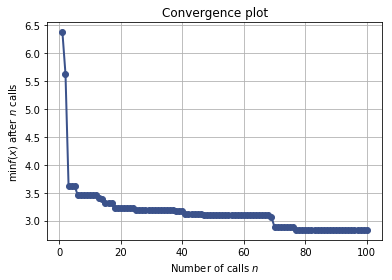
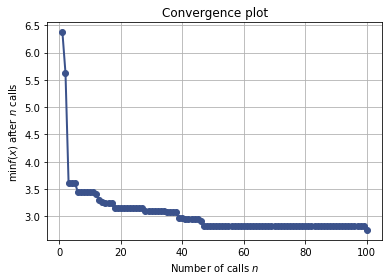
Pushing the docs for revision for branch: master, commit 6510986c71270a9a681dd38e9f9c0741b0b785f9

diff --git a/notebooks/bayesian-optimization.html b/notebooks/bayesian-optimization.html
@@ -1223,50 +1223,50 @@ controlling the exploration-exploitation trade-off.
              kernel=1**2 * Matern(length_scale=1, nu=2.5) + WhiteKernel(noise_level=0.01),
              n_restarts_optimizer=2, noise=0.010000000000000002,
              normalize_y=True, optimizer=&#39;fmin_l_bfgs_b&#39;,
-             random_state=&lt;mtrand.RandomState object at 0x7f016ec9a1f8&gt;), GaussianProcessRegressor(alpha=0.0, copy_X_train=True,
+             random_state=&lt;mtrand.RandomState object at 0x7f0a4779e1b0&gt;), GaussianProcessRegressor(alpha=0.0, copy_X_train=True,
              kernel=1**2 * Matern(length_scale=1, nu=2.5) + WhiteKernel(noise_level=0.01),
              n_restarts_optimizer=2, noise=0.010000000000000002,
              normalize_y=True, optimizer=&#39;fmin_l_bfgs_b&#39;,
-             random_state=&lt;mtrand.RandomState object at 0x7f016eca5e58&gt;), GaussianProcessRegressor(alpha=0.0, copy_X_train=True,
+             random_state=&lt;mtrand.RandomState object at 0x7f0a477a9e10&gt;), GaussianProcessRegressor(alpha=0.0, copy_X_train=True,
              kernel=1**2 * Matern(length_scale=1, nu=2.5) + WhiteKernel(noise_level=0.01),
              n_restarts_optimizer=2, noise=0.010000000000000002,
              normalize_y=True, optimizer=&#39;fmin_l_bfgs_b&#39;,
-             random_state=&lt;mtrand.RandomState object at 0x7f016ecaf318&gt;), GaussianProcessRegressor(alpha=0.0, copy_X_train=True,
+             random_state=&lt;mtrand.RandomState object at 0x7f0a477b02d0&gt;), GaussianProcessRegressor(alpha=0.0, copy_X_train=True,
              kernel=1**2 * Matern(length_scale=1, nu=2.5) + WhiteKernel(noise_level=0.01),
              n_restarts_optimizer=2, noise=0.010000000000000002,
              normalize_y=True, optimizer=&#39;fmin_l_bfgs_b&#39;,
-             random_state=&lt;mtrand.RandomState object at 0x7f016ecaf240&gt;), GaussianProcessRegressor(alpha=0.0, copy_X_train=True,
+             random_state=&lt;mtrand.RandomState object at 0x7f0a477b01f8&gt;), GaussianProcessRegressor(alpha=0.0, copy_X_train=True,
              kernel=1**2 * Matern(length_scale=1, nu=2.5) + WhiteKernel(noise_level=0.01),
              n_restarts_optimizer=2, noise=0.010000000000000002,
              normalize_y=True, optimizer=&#39;fmin_l_bfgs_b&#39;,
-             random_state=&lt;mtrand.RandomState object at 0x7f016ec9ac18&gt;), GaussianProcessRegressor(alpha=0.0, copy_X_train=True,
+             random_state=&lt;mtrand.RandomState object at 0x7f0a4779ebd0&gt;), GaussianProcessRegressor(alpha=0.0, copy_X_train=True,
              kernel=1**2 * Matern(length_scale=1, nu=2.5) + WhiteKernel(noise_level=0.01),
              n_restarts_optimizer=2, noise=0.010000000000000002,
              normalize_y=True, optimizer=&#39;fmin_l_bfgs_b&#39;,
-             random_state=&lt;mtrand.RandomState object at 0x7f0170a36870&gt;), GaussianProcessRegressor(alpha=0.0, copy_X_train=True,
+             random_state=&lt;mtrand.RandomState object at 0x7f0a525d6360&gt;), GaussianProcessRegressor(alpha=0.0, copy_X_train=True,
              kernel=1**2 * Matern(length_scale=1, nu=2.5) + WhiteKernel(noise_level=0.01),
              n_restarts_optimizer=2, noise=0.010000000000000002,
              normalize_y=True, optimizer=&#39;fmin_l_bfgs_b&#39;,
-             random_state=&lt;mtrand.RandomState object at 0x7f0179b3f798&gt;), GaussianProcessRegressor(alpha=0.0, copy_X_train=True,
+             random_state=&lt;mtrand.RandomState object at 0x7f0a52642990&gt;), GaussianProcessRegressor(alpha=0.0, copy_X_train=True,
              kernel=1**2 * Matern(length_scale=1, nu=2.5) + WhiteKernel(noise_level=0.01),
              n_restarts_optimizer=2, noise=0.010000000000000002,
              normalize_y=True, optimizer=&#39;fmin_l_bfgs_b&#39;,
-             random_state=&lt;mtrand.RandomState object at 0x7f0179b3f990&gt;), GaussianProcessRegressor(alpha=0.0, copy_X_train=True,
+             random_state=&lt;mtrand.RandomState object at 0x7f0a52642948&gt;), GaussianProcessRegressor(alpha=0.0, copy_X_train=True,
              kernel=1**2 * Matern(length_scale=1, nu=2.5) + WhiteKernel(noise_level=0.01),
              n_restarts_optimizer=2, noise=0.010000000000000002,
              normalize_y=True, optimizer=&#39;fmin_l_bfgs_b&#39;,
-             random_state=&lt;mtrand.RandomState object at 0x7f0179b3f5e8&gt;), GaussianProcessRegressor(alpha=0.0, copy_X_train=True,
+             random_state=&lt;mtrand.RandomState object at 0x7f0a52642c60&gt;), GaussianProcessRegressor(alpha=0.0, copy_X_train=True,
              kernel=1**2 * Matern(length_scale=1, nu=2.5) + WhiteKernel(noise_level=0.01),
              n_restarts_optimizer=2, noise=0.010000000000000002,
              normalize_y=True, optimizer=&#39;fmin_l_bfgs_b&#39;,
-             random_state=&lt;mtrand.RandomState object at 0x7f0179b3f318&gt;)]
- random_state: &lt;mtrand.RandomState object at 0x7f016ec95990&gt;
+             random_state=&lt;mtrand.RandomState object at 0x7f0a52642318&gt;)]
+ random_state: &lt;mtrand.RandomState object at 0x7f0a47798948&gt;
         space: Space([Real(low=-2.0, high=2.0, prior=uniform, transform=identity)])
         specs: {&#39;args&#39;: {&#39;n_jobs&#39;: 1, &#39;kappa&#39;: 1.96, &#39;xi&#39;: 0.01, &#39;n_restarts_optimizer&#39;: 5, &#39;n_points&#39;: 10000, &#39;callback&#39;: None, &#39;verbose&#39;: False, &#39;random_state&#39;: 123, &#39;y0&#39;: None, &#39;x0&#39;: None, &#39;acq_optimizer&#39;: &#39;lbfgs&#39;, &#39;acq_func&#39;: &#39;EI&#39;, &#39;n_random_starts&#39;: 5, &#39;n_calls&#39;: 15, &#39;base_estimator&#39;: GaussianProcessRegressor(alpha=0.0, copy_X_train=True,
              kernel=1**2 * Matern(length_scale=1, nu=2.5),
              n_restarts_optimizer=2, noise=0.010000000000000002,
              normalize_y=True, optimizer=&#39;fmin_l_bfgs_b&#39;,
-             random_state=&lt;mtrand.RandomState object at 0x7f016ec95090&gt;), &#39;dimensions&#39;: [(-2.0, 2.0)], &#39;func&#39;: &lt;function f at 0x7f017c4698c8&gt;}, &#39;function&#39;: &#39;base_minimize&#39;}
+             random_state=&lt;mtrand.RandomState object at 0x7f0a47798048&gt;), &#39;dimensions&#39;: [(-2.0, 2.0)], &#39;func&#39;: &lt;function f at 0x7f0a54f6d8c8&gt;}, &#39;function&#39;: &#39;base_minimize&#39;}
             x: [-0.31431138440779044]
       x_iters: [[0.785876742391447], [-0.85544266019848192], [-1.0925941857431873], [0.20525907633156537], [0.87787587914225274], [1.0930078275284341], [-1.5825827673513784], [-1.8740230637856119], [2.0], [1.5920603878809245], [-1.3948575246313788], [0.91055125717293051], [-0.38405568669965967], [-0.31431138440779044], [-0.30894059735758106]]
 </pre></div>

diff --git a/notebooks/ask-and-tell.html b/notebooks/ask-and-tell.html
@@ -1119,7 +1119,7 @@ table {
 </pre></div>
 
 
-<div class="codehilite"><pre><span></span>&lt;matplotlib.figure.Figure at 0x7f6ee5f03828&gt;
+<div class="codehilite"><pre><span></span>&lt;matplotlib.figure.Figure at 0x7fb6ececb4e0&gt;
 </pre></div>
 
 
@@ -1198,7 +1198,7 @@ optimizer:</p>
 <div class="codehilite"><pre><span></span>          fun: -0.063856745472530174
     func_vals: array([-0.06385675])
        models: []
- random_state: &lt;mtrand.RandomState object at 0x7f6eec866bd0&gt;
+ random_state: &lt;mtrand.RandomState object at 0x7fb6d404dc60&gt;
         space: Space([Real(low=-2.0, high=2.0, prior=uniform, transform=identity)])
         specs: None
             x: [-1.3229420461664514]

diff --git a/notebooks/hyperparameter-optimization.html b/notebooks/hyperparameter-optimization.html
@@ -1164,7 +1164,7 @@ Katie Malone, August 2016</p>
 </pre></div>
 
 
-<div class="codehilite"><pre><span></span>&#39;Best score=2.8328&#39;
+<div class="codehilite"><pre><span></span>&#39;Best score=2.7493&#39;
 </pre></div>
 
 
@@ -1181,9 +1181,9 @@ Katie Malone, August 2016</p>
 
 <div class="codehilite"><pre><span></span>Best parameters:
 - max_depth=5
-- learning_rate=0.162082
-- max_features=5
-- min_samples_split=21
+- learning_rate=0.136416
+- max_features=9
+- min_samples_split=34
 - min_samples_leaf=1
 </pre></div>
 

diff --git a/notebooks/strategy-comparison.html b/notebooks/strategy-comparison.html
@@ -1119,7 +1119,7 @@ table {
 </pre></div>
 
 
-<div class="codehilite"><pre><span></span>&lt;matplotlib.figure.Figure at 0x7f4e5eeb3438&gt;
+<div class="codehilite"><pre><span></span>&lt;matplotlib.figure.Figure at 0x7f4be2db2438&gt;
 </pre></div>
 
 

diff --git a/notebooks/visualizing-results.html b/notebooks/visualizing-results.html
@@ -1119,7 +1119,7 @@ table {
 </pre></div>
 
 
-<div class="codehilite"><pre><span></span>&lt;matplotlib.figure.Figure at 0x7ff34808f828&gt;
+<div class="codehilite"><pre><span></span>&lt;matplotlib.figure.Figure at 0x7f30a07cec50&gt;
 </pre></div>
 
 

diff --git a/notebooks/bayesian-optimization.md b/notebooks/bayesian-optimization.md
@@ -135,50 +135,50 @@ print(res)
                  kernel=1**2 * Matern(length_scale=1, nu=2.5) + WhiteKernel(noise_level=0.01),
                  n_restarts_optimizer=2, noise=0.010000000000000002,
                  normalize_y=True, optimizer='fmin_l_bfgs_b',
-                 random_state=<mtrand.RandomState object at 0x7f016ec9a1f8>), GaussianProcessRegressor(alpha=0.0, copy_X_train=True,
+                 random_state=<mtrand.RandomState object at 0x7f0a4779e1b0>), GaussianProcessRegressor(alpha=0.0, copy_X_train=True,
                  kernel=1**2 * Matern(length_scale=1, nu=2.5) + WhiteKernel(noise_level=0.01),
                  n_restarts_optimizer=2, noise=0.010000000000000002,
                  normalize_y=True, optimizer='fmin_l_bfgs_b',
-                 random_state=<mtrand.RandomState object at 0x7f016eca5e58>), GaussianProcessRegressor(alpha=0.0, copy_X_train=True,
+                 random_state=<mtrand.RandomState object at 0x7f0a477a9e10>), GaussianProcessRegressor(alpha=0.0, copy_X_train=True,
                  kernel=1**2 * Matern(length_scale=1, nu=2.5) + WhiteKernel(noise_level=0.01),
                  n_restarts_optimizer=2, noise=0.010000000000000002,
                  normalize_y=True, optimizer='fmin_l_bfgs_b',
-                 random_state=<mtrand.RandomState object at 0x7f016ecaf318>), GaussianProcessRegressor(alpha=0.0, copy_X_train=True,
+                 random_state=<mtrand.RandomState object at 0x7f0a477b02d0>), GaussianProcessRegressor(alpha=0.0, copy_X_train=True,
                  kernel=1**2 * Matern(length_scale=1, nu=2.5) + WhiteKernel(noise_level=0.01),
                  n_restarts_optimizer=2, noise=0.010000000000000002,
                  normalize_y=True, optimizer='fmin_l_bfgs_b',
-                 random_state=<mtrand.RandomState object at 0x7f016ecaf240>), GaussianProcessRegressor(alpha=0.0, copy_X_train=True,
+                 random_state=<mtrand.RandomState object at 0x7f0a477b01f8>), GaussianProcessRegressor(alpha=0.0, copy_X_train=True,
                  kernel=1**2 * Matern(length_scale=1, nu=2.5) + WhiteKernel(noise_level=0.01),
                  n_restarts_optimizer=2, noise=0.010000000000000002,
                  normalize_y=True, optimizer='fmin_l_bfgs_b',
-                 random_state=<mtrand.RandomState object at 0x7f016ec9ac18>), GaussianProcessRegressor(alpha=0.0, copy_X_train=True,
+                 random_state=<mtrand.RandomState object at 0x7f0a4779ebd0>), GaussianProcessRegressor(alpha=0.0, copy_X_train=True,
                  kernel=1**2 * Matern(length_scale=1, nu=2.5) + WhiteKernel(noise_level=0.01),
                  n_restarts_optimizer=2, noise=0.010000000000000002,
                  normalize_y=True, optimizer='fmin_l_bfgs_b',
-                 random_state=<mtrand.RandomState object at 0x7f0170a36870>), GaussianProcessRegressor(alpha=0.0, copy_X_train=True,
+                 random_state=<mtrand.RandomState object at 0x7f0a525d6360>), GaussianProcessRegressor(alpha=0.0, copy_X_train=True,
                  kernel=1**2 * Matern(length_scale=1, nu=2.5) + WhiteKernel(noise_level=0.01),
                  n_restarts_optimizer=2, noise=0.010000000000000002,
                  normalize_y=True, optimizer='fmin_l_bfgs_b',
-                 random_state=<mtrand.RandomState object at 0x7f0179b3f798>), GaussianProcessRegressor(alpha=0.0, copy_X_train=True,
+                 random_state=<mtrand.RandomState object at 0x7f0a52642990>), GaussianProcessRegressor(alpha=0.0, copy_X_train=True,
                  kernel=1**2 * Matern(length_scale=1, nu=2.5) + WhiteKernel(noise_level=0.01),
                  n_restarts_optimizer=2, noise=0.010000000000000002,
                  normalize_y=True, optimizer='fmin_l_bfgs_b',
-                 random_state=<mtrand.RandomState object at 0x7f0179b3f990>), GaussianProcessRegressor(alpha=0.0, copy_X_train=True,
+                 random_state=<mtrand.RandomState object at 0x7f0a52642948>), GaussianProcessRegressor(alpha=0.0, copy_X_train=True,
                  kernel=1**2 * Matern(length_scale=1, nu=2.5) + WhiteKernel(noise_level=0.01),
                  n_restarts_optimizer=2, noise=0.010000000000000002,
                  normalize_y=True, optimizer='fmin_l_bfgs_b',
-                 random_state=<mtrand.RandomState object at 0x7f0179b3f5e8>), GaussianProcessRegressor(alpha=0.0, copy_X_train=True,
+                 random_state=<mtrand.RandomState object at 0x7f0a52642c60>), GaussianProcessRegressor(alpha=0.0, copy_X_train=True,
                  kernel=1**2 * Matern(length_scale=1, nu=2.5) + WhiteKernel(noise_level=0.01),
                  n_restarts_optimizer=2, noise=0.010000000000000002,
                  normalize_y=True, optimizer='fmin_l_bfgs_b',
-                 random_state=<mtrand.RandomState object at 0x7f0179b3f318>)]
-     random_state: <mtrand.RandomState object at 0x7f016ec95990>
+                 random_state=<mtrand.RandomState object at 0x7f0a52642318>)]
+     random_state: <mtrand.RandomState object at 0x7f0a47798948>
             space: Space([Real(low=-2.0, high=2.0, prior=uniform, transform=identity)])
             specs: {'args': {'n_jobs': 1, 'kappa': 1.96, 'xi': 0.01, 'n_restarts_optimizer': 5, 'n_points': 10000, 'callback': None, 'verbose': False, 'random_state': 123, 'y0': None, 'x0': None, 'acq_optimizer': 'lbfgs', 'acq_func': 'EI', 'n_random_starts': 5, 'n_calls': 15, 'base_estimator': GaussianProcessRegressor(alpha=0.0, copy_X_train=True,
                  kernel=1**2 * Matern(length_scale=1, nu=2.5),
                  n_restarts_optimizer=2, noise=0.010000000000000002,
                  normalize_y=True, optimizer='fmin_l_bfgs_b',
-                 random_state=<mtrand.RandomState object at 0x7f016ec95090>), 'dimensions': [(-2.0, 2.0)], 'func': <function f at 0x7f017c4698c8>}, 'function': 'base_minimize'}
+                 random_state=<mtrand.RandomState object at 0x7f0a47798048>), 'dimensions': [(-2.0, 2.0)], 'func': <function f at 0x7f0a54f6d8c8>}, 'function': 'base_minimize'}
                 x: [-0.31431138440779044]
           x_iters: [[0.785876742391447], [-0.85544266019848192], [-1.0925941857431873], [0.20525907633156537], [0.87787587914225274], [1.0930078275284341], [-1.5825827673513784], [-1.8740230637856119], [2.0], [1.5920603878809245], [-1.3948575246313788], [0.91055125717293051], [-0.38405568669965967], [-0.31431138440779044], [-0.30894059735758106]]
 

diff --git a/notebooks/ask-and-tell.md b/notebooks/ask-and-tell.md
@@ -14,7 +14,7 @@ plt.set_cmap("viridis")
 ```
 
 
-    <matplotlib.figure.Figure at 0x7f6ee5f03828>
+    <matplotlib.figure.Figure at 0x7fb6ececb4e0>
 
 
 Bayesian optimization is used to tune parameters for walking robots or other experiments
@@ -113,7 +113,7 @@ opt.tell(next_x, f_val)
               fun: -0.063856745472530174
         func_vals: array([-0.06385675])
            models: []
-     random_state: <mtrand.RandomState object at 0x7f6eec866bd0>
+     random_state: <mtrand.RandomState object at 0x7fb6d404dc60>
             space: Space([Real(low=-2.0, high=2.0, prior=uniform, transform=identity)])
             specs: None
                 x: [-1.3229420461664514]

diff --git a/notebooks/hyperparameter-optimization.md b/notebooks/hyperparameter-optimization.md
@@ -72,7 +72,7 @@ res_gp = gp_minimize(objective, space, n_calls=100, random_state=0)
 
 
 
-    'Best score=2.8328'
+    'Best score=2.7493'
 
 
 
@@ -90,9 +90,9 @@ print("""Best parameters:
 
     Best parameters:
     - max_depth=5
-    - learning_rate=0.162082
-    - max_features=5
-    - min_samples_split=21
+    - learning_rate=0.136416
+    - max_features=9
+    - min_samples_split=34
     - min_samples_leaf=1
 
 

diff --git a/notebooks/strategy-comparison.md b/notebooks/strategy-comparison.md
@@ -14,7 +14,7 @@ plt.set_cmap("viridis")
 ```
 
 
-    <matplotlib.figure.Figure at 0x7f4e5eeb3438>
+    <matplotlib.figure.Figure at 0x7f4be2db2438>
 
 
 Bayesian optimization or sequential model-based optimization uses a surrogate model

diff --git a/notebooks/visualizing-results.md b/notebooks/visualizing-results.md
@@ -14,7 +14,7 @@ plt.set_cmap("viridis")
 ```
 
 
-    <matplotlib.figure.Figure at 0x7ff34808f828>
+    <matplotlib.figure.Figure at 0x7f30a07cec50>
 
 
 Bayesian optimization or sequential model-based optimization uses a surrogate model
